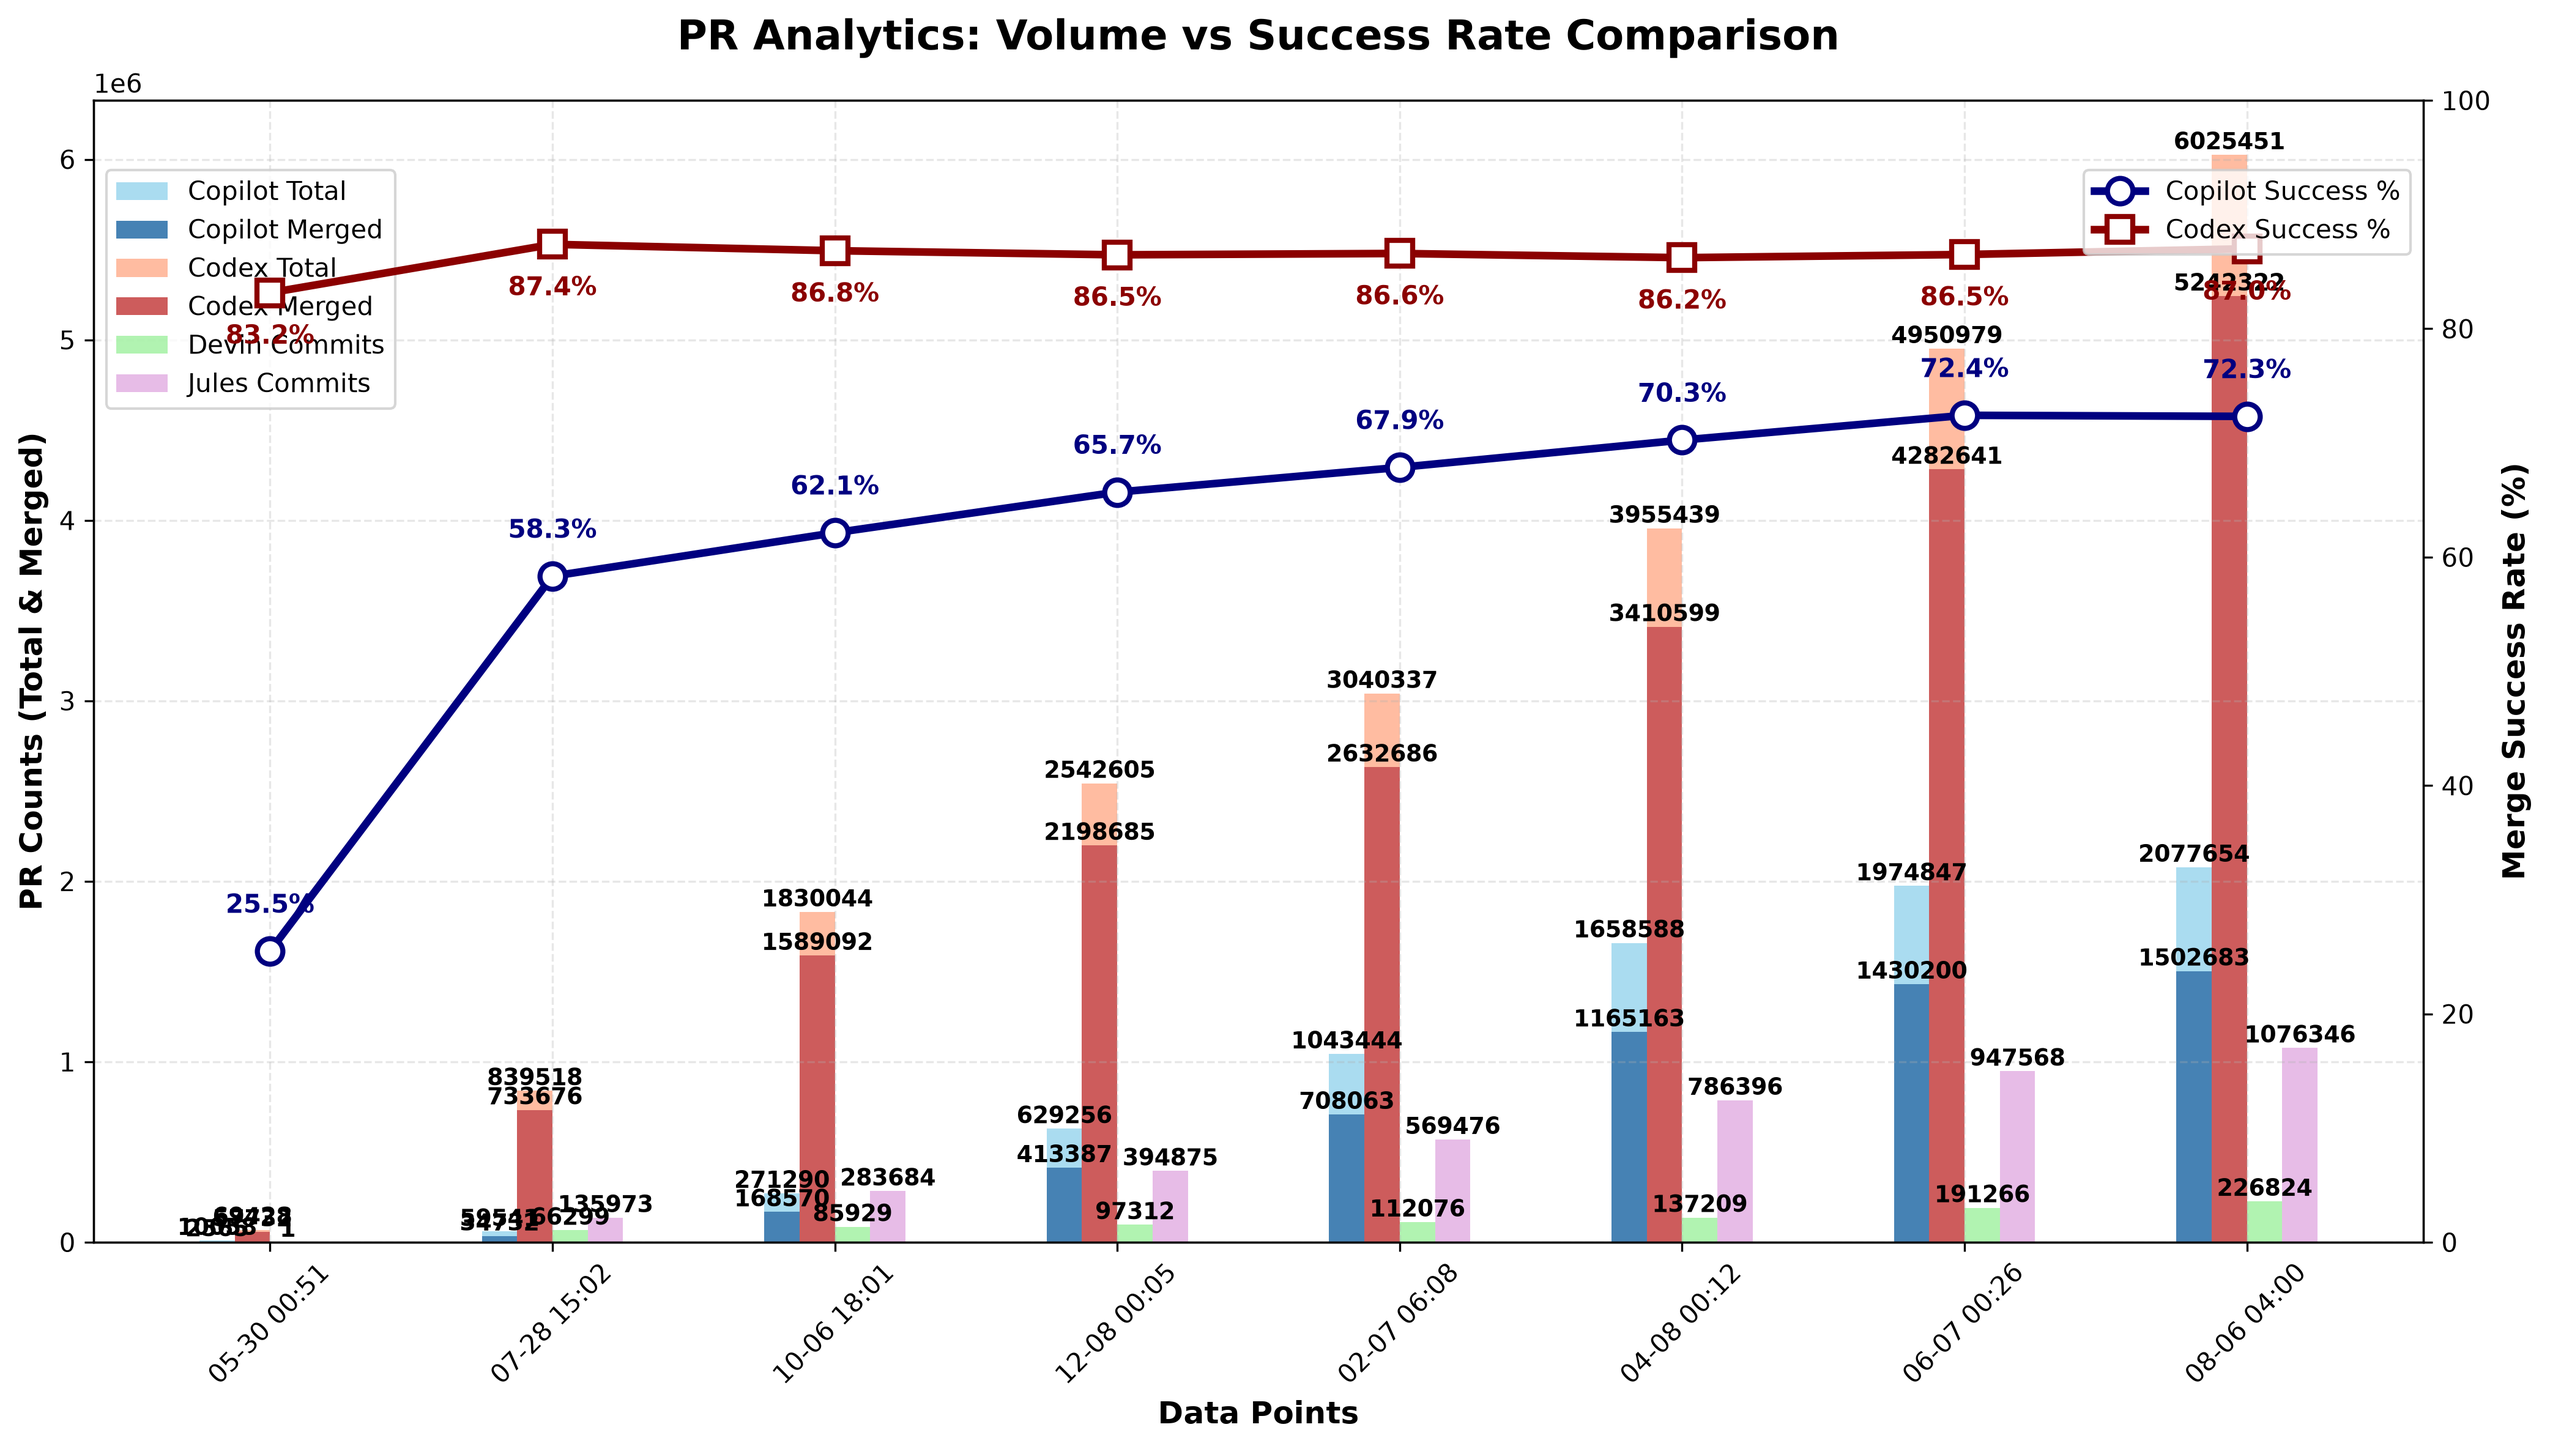
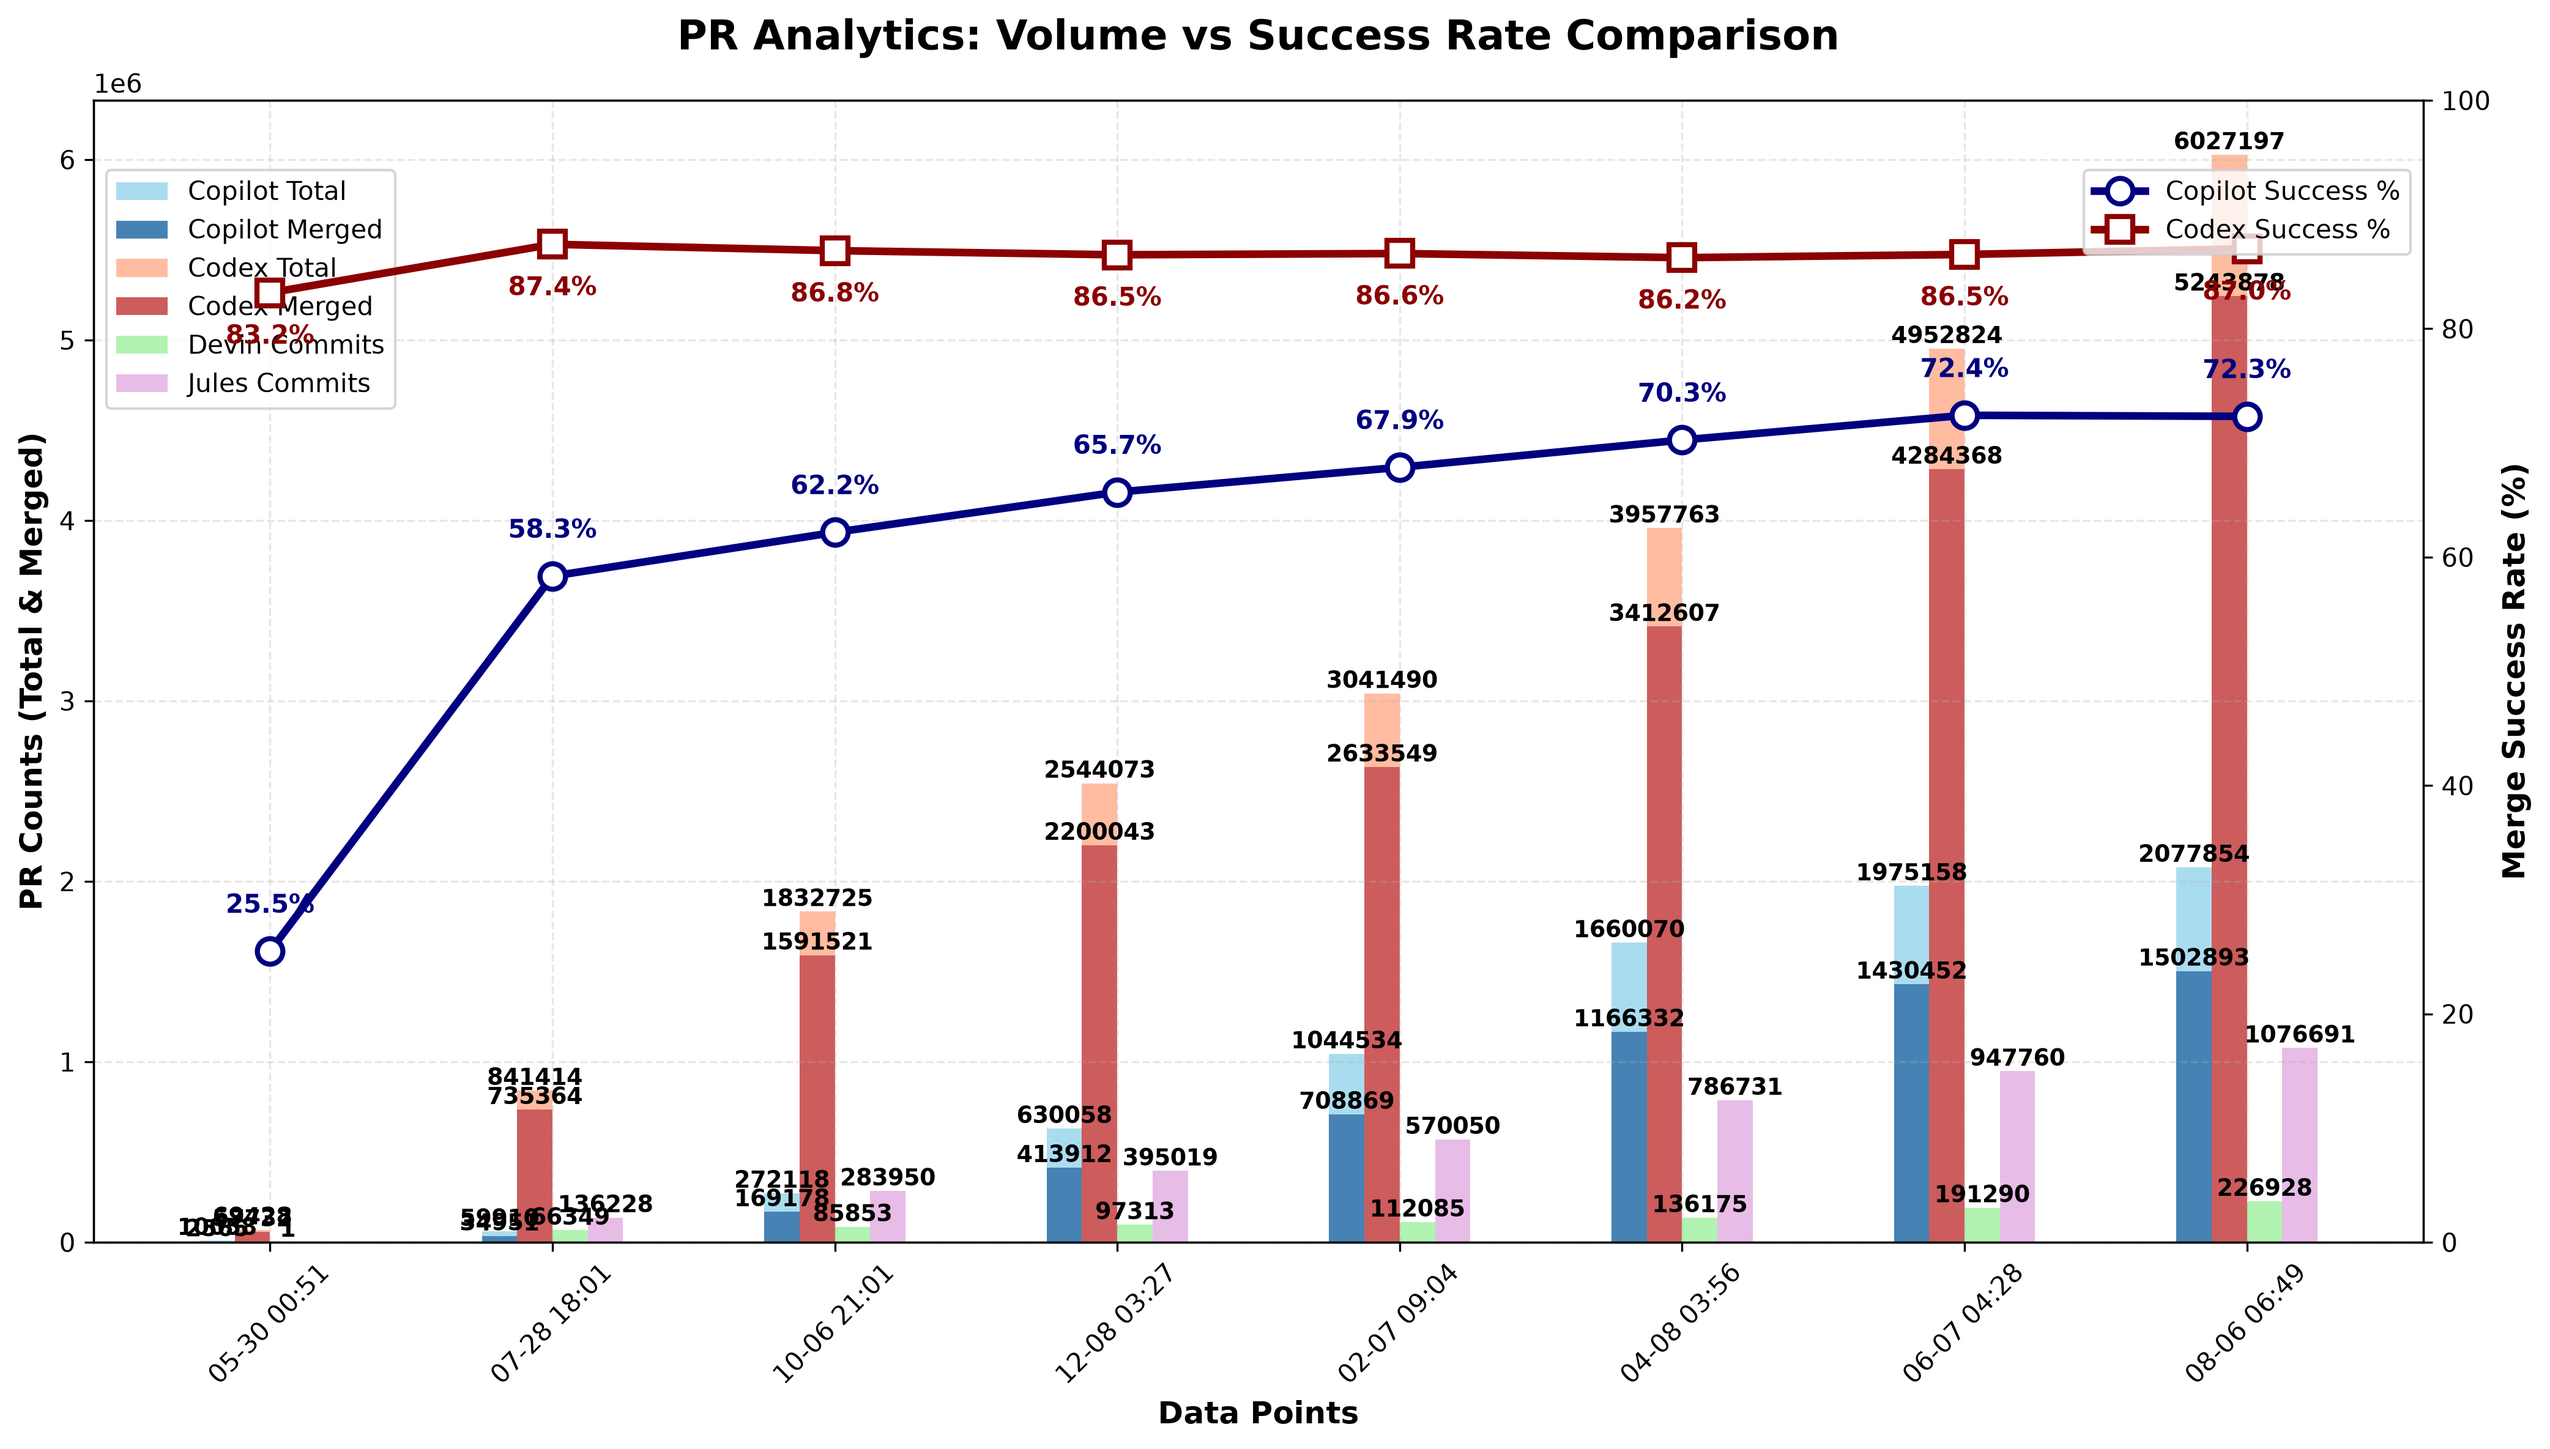
chore: update PR‑approval chart

diff --git a/docs/index.html b/docs/index.html
@@ -3386,6 +3386,7 @@
                         <td>N/A</td>
                         <td>N/A</td>
                         <td>N/A</td>
+                        <td>N/A</td>
                     </tr>
                     <tr>
                         <td>Codex</td>
@@ -6730,27 +6731,28 @@
                         <td>N/A</td>
                         <td>N/A</td>
                         <td>N/A</td>
+                        <td>N/A</td>
                     </tr>
                 <tr>
                         <td>Devin</td>
                         <td>N/A</td>
                         <td>N/A</td>
                         <td>N/A</td>
-                        <td>226,824</td>
+                        <td>226,928</td>
                     </tr>
                     <tr>
                         <td>Jules</td>
                         <td>N/A</td>
                         <td>N/A</td>
                         <td>N/A</td>
-                        <td>1,076,346</td>
+                        <td>1,076,691</td>
                     </tr>
                     </tbody>
             </table>
         </section>
 
         <footer>
-            <p>Last updated: <span id="last-updated">August 06, 2026 04:00 UTC</span></p>
+            <p>Last updated: <span id="last-updated">August 06, 2026 06:50 UTC</span></p>
             <p><a href="https://github.com/aavetis/ai-pr-watcher">View on GitHub</a></p>
         </footer>
     </div>

diff --git a/README.md b/README.md
@@ -19,7 +19,7 @@ Explore the GitHub search queries used:
 
 | Service | Total PRs | Merged PRs | Merge Rate | Total Commits |
 | ------- | --------- | ---------- | ---------- | ------------- |
-| Copilot | 2,077,654 | 1,502,683 | 72.33% | N/A           |
-| Codex   | 6,025,451 | 5,242,322 | 87.00% | N/A           |
-| Devin   | N/A       | N/A        | N/A        | 226,824 |
-| Jules   | N/A       | N/A        | N/A        | 1,076,346 |
+| Copilot | 2,077,854 | 1,502,893 | 72.33% | N/A           |
+| Codex   | 6,027,197 | 5,243,878 | 87.00% | N/A           |
+| Devin   | N/A       | N/A        | N/A        | 226,928 |
+| Jules   | N/A       | N/A        | N/A        | 1,076,691 |
